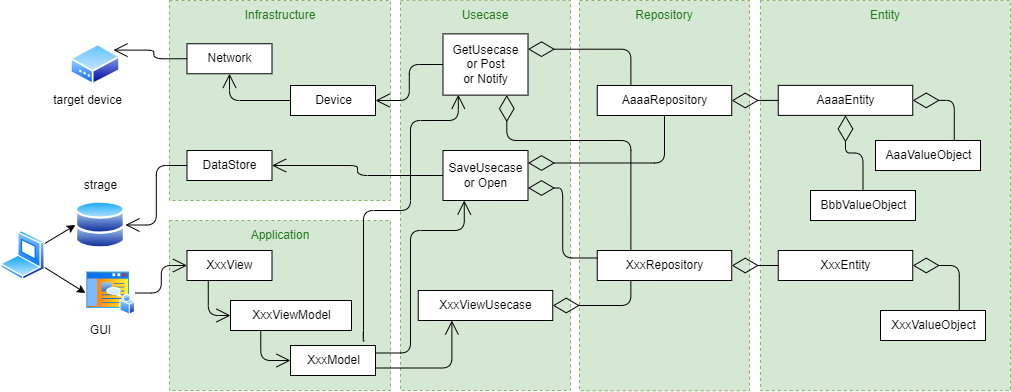
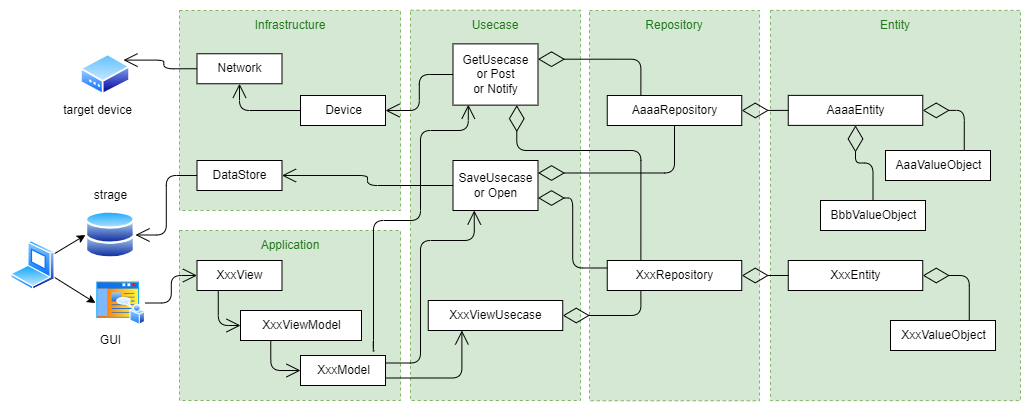
readme更新

Changed region(s): [[0.0, 0.0, 1.0, 1.0], [0.0613, 0.4592, 0.1227, 0.4898]]

diff --git a/README.md b/README.md
@@ -61,7 +61,7 @@
 
 ※Clean Architectureは、ドメイン外部の要因は状況により変化しやすい部分、ドメイン内部の要因は変化しにくい部分として、ドメイン内部の要因をドメイン外部の要因から隔離することで、ドメイン外部の要因の変化に強い設計を実現することを念頭に置かれた設計である。当該プロジェクトにおいては、ウォーターフォール開発であることから、そこまでドメイン外部の変化が生じないことが予想されるため、品質過剰と判断した。
 
-![Architecture_Design](https://github.com/bosssanovar/LightMvvmSample/assets/19525768/fe0896d3-f60d-47ff-b00f-3f8795c804dd)
+![Architecture_Design](https://github.com/bosssanovar/LightMvvmSample/assets/19525768/b109558e-56f7-43ed-a6e4-96440c4d3d53)
 
 #### Entity
 
